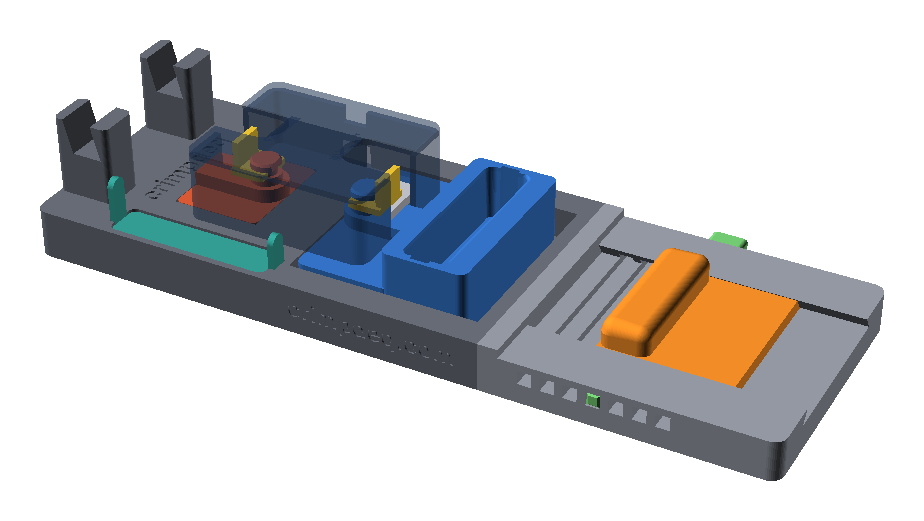
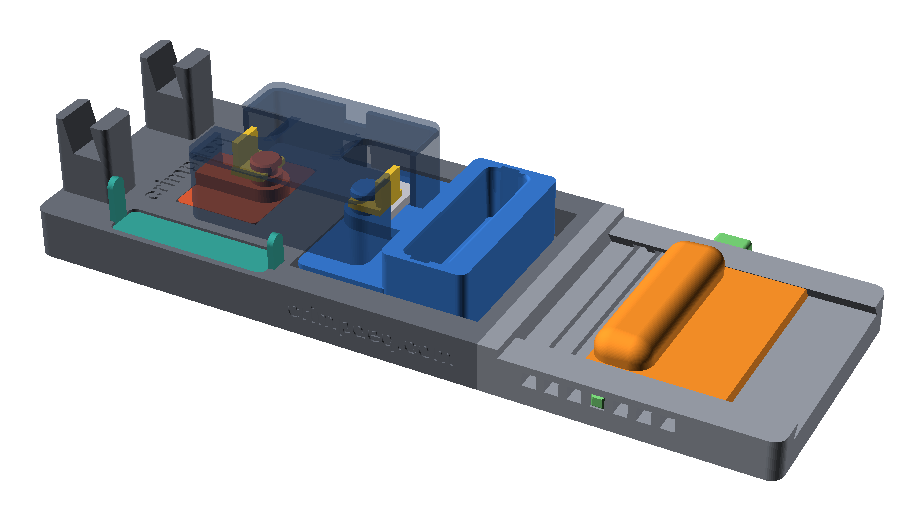
feat: widen and round the palm bolster
Widen the palm rest from 68 to 88 mm so the bolster spans the finger
pocket and an adult palm, and enlarge its rounds (front 9, rear 8,
ends 10 mm) on a 26 mm deep bolster so the palm meets no hard edges.

A new assertion keeps the bolster at least pocket-wide and its rounds
above the sole. The longer key engagement lowers key stresses, so the
invalid key_plate_engage_z probe moves from 1 to 0.5 mm.

diff --git a/docs/src/requirements.md b/docs/src/requirements.md
@@ -41,7 +41,9 @@ replaces testing printed parts.
 
 - The palm rests comfortably at the height of the fingertips on the 20 and
   25 mm edges (Z = −10 mm), so the heel and the fingers pull in line.
-- A raised stop gives the palm a face to push against during a pull.
+- A raised stop gives the palm a face to push against during a pull. It is
+  at least as wide as the finger pocket and rounded where the palm touches
+  it.
 - The rest has seven positively locked positions, for hand openings of 25 to
   85 mm, adjustable without tools.
 
